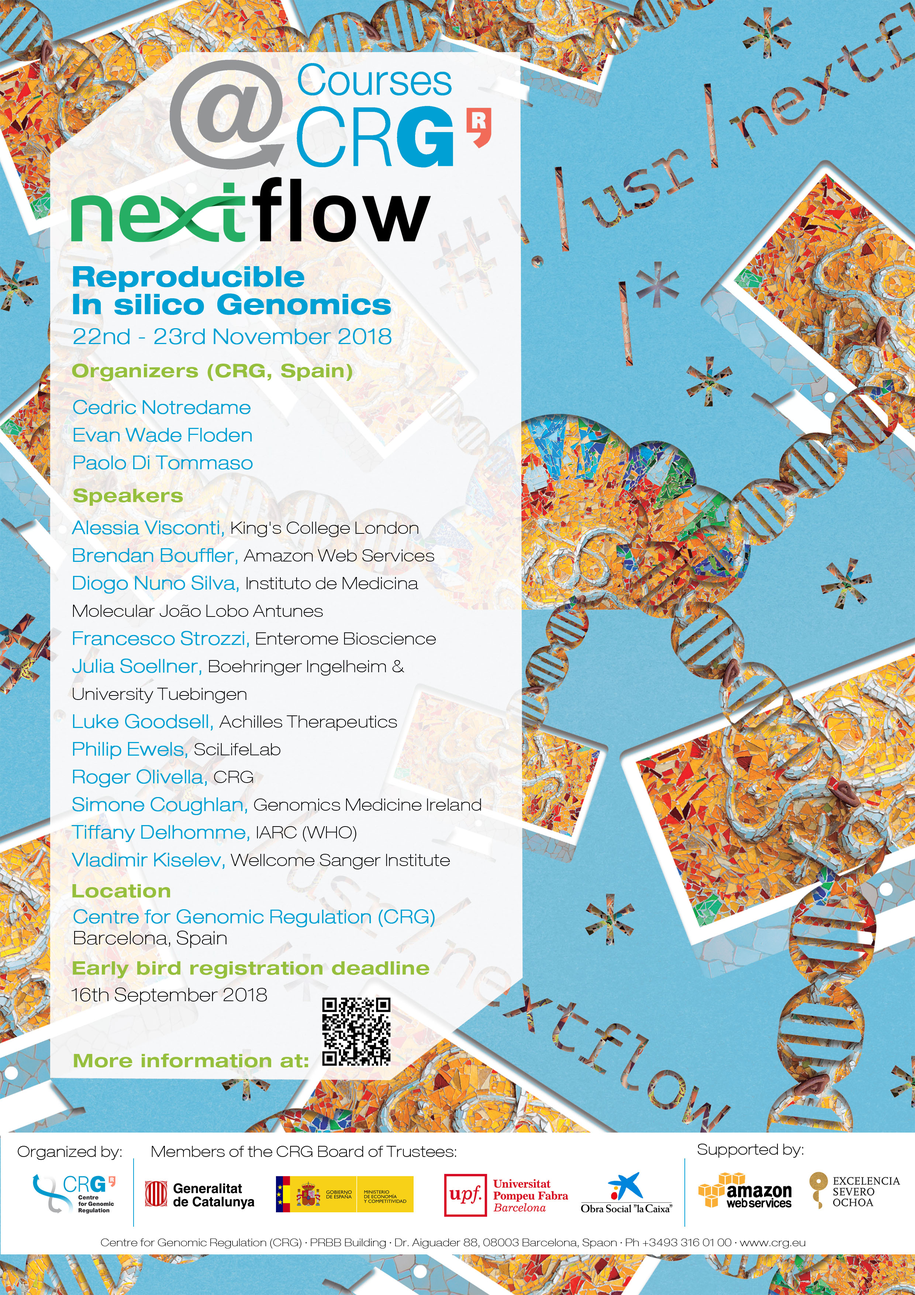
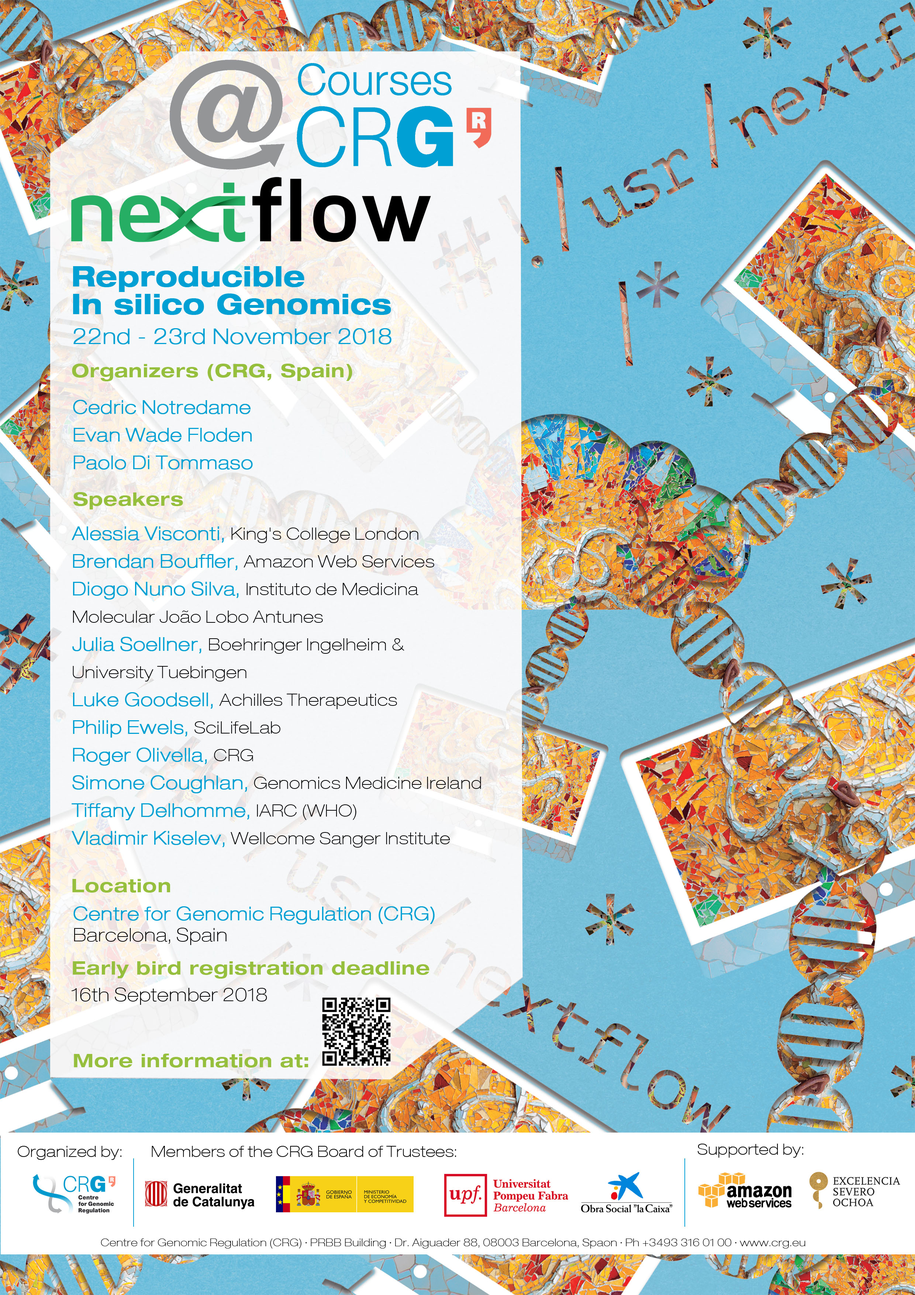
Removing Strozzi

Changed region(s): [[0.0621, 0.3729, 0.5278, 0.7457]]

diff --git a/abstracts.md b/abstracts.md
@@ -90,14 +90,6 @@ A current effort is emerging inside the IARC to enable researchers to produce ac
 
 I am currently working at the Section of Genetics, International Agency for Research on Cancer, in the Genetics Cancer Susceptibility Group. I am a PhD candidate trying to decipher cancer genomics issues using computational/statistical methods.
 
-## Agile pipelines with Nextflow: how to go from development to production without pain
-
-**Francesco Strozzi**, *Bioinformatics Head	Enterome Bioscience, France* 
-
-Nextflow allows creating pipelines in a very agile way, starting from simple blocks and processes to test new software and parameters. Once a single block of the pipeline works as expected and there are no errors, the developer can simply add a new process and start exploring and testing a new layer of the pipeline. The main Nextflow features allowing this agile development are the data flow model, jobs traceability and the possibility to resume workflows, without the need to re-run unchanged and already completed steps. The advanced logging and reporting system that Nextflow offers are also critical features helping with jobs profiling and monitoring. Finally, the support for multiple executors and the transparent use of software containers allow to prototype pipelines locally and then to port them in production on large HPC systems or on the cloud.
-In this talk, agile pipelines development with Nextflow will be presented from the point of view of Enterome Bioscience, a biotech company working on the human gut microbiome. In the company, cutting-edge bioinformatics pipelines are central to support the development of diagnostics and therapeutics on this innovative field. The ensemble of Nextflow features allows the Bioinformatics Team to transition without pain from a development stage, where pipelines are designed locally or on very small datasets, to a production phase where full datasets are processed with complete pipeline versions on the AWS cloud. A perspective on pipeline unit testing will be also presented, as a topic of possible broader interest for the Nextflow community.
-
-**Bio**: Bioinformatics Head at Enterome Bioscience, with more than 14 years of experience in bioinformatics and with the management of bioinformatic teams across the fields of genomics, biotechnology and biomedicine. In my career I focused on the development of data analysis pipelines, data architecture strategies, and the application of computational methods to support and drive research projects and production platforms. I have more than 6 years of experience with metagenomics and computational microbiology to characterise single microorganisms and complex communities, including the human gut, soil and rumen microbiome.
 
 ## QCloud: A web-based quality control system for mass spectrometry-based proteomics laboratories
 
